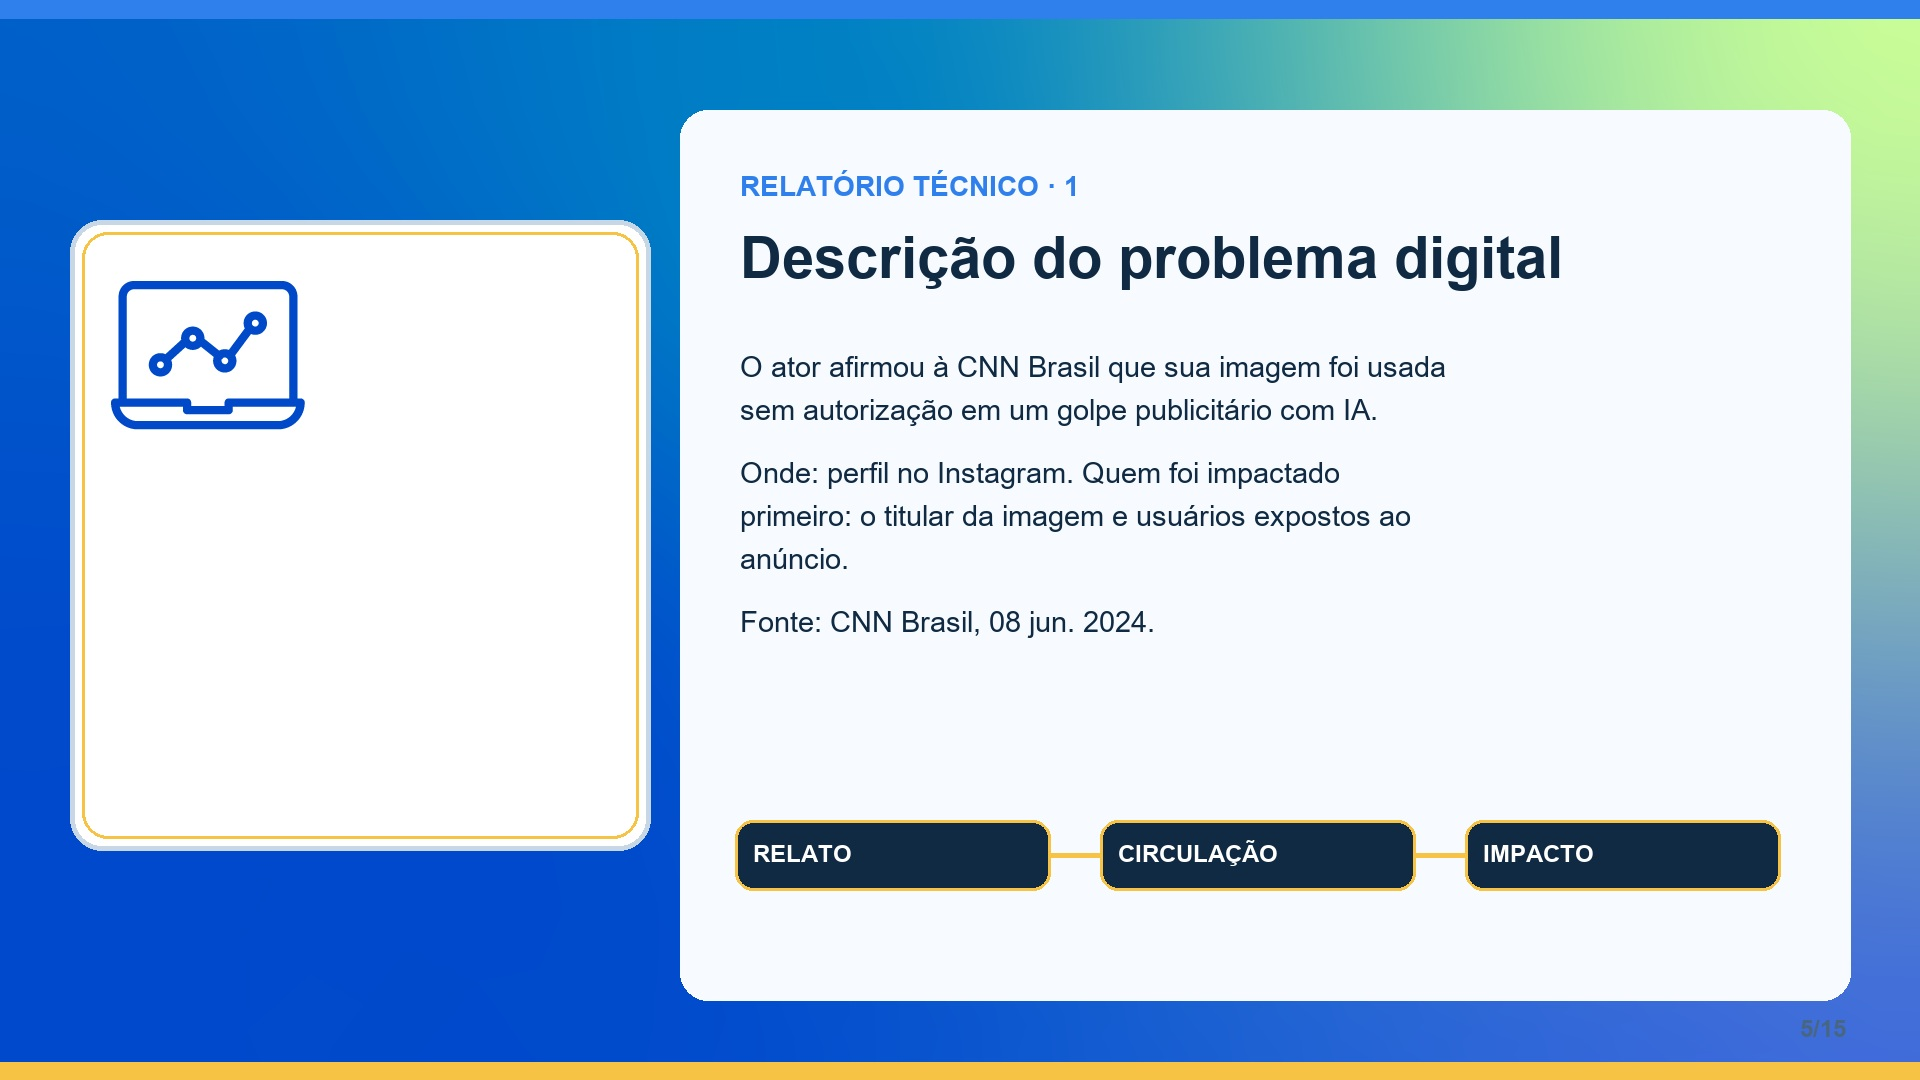
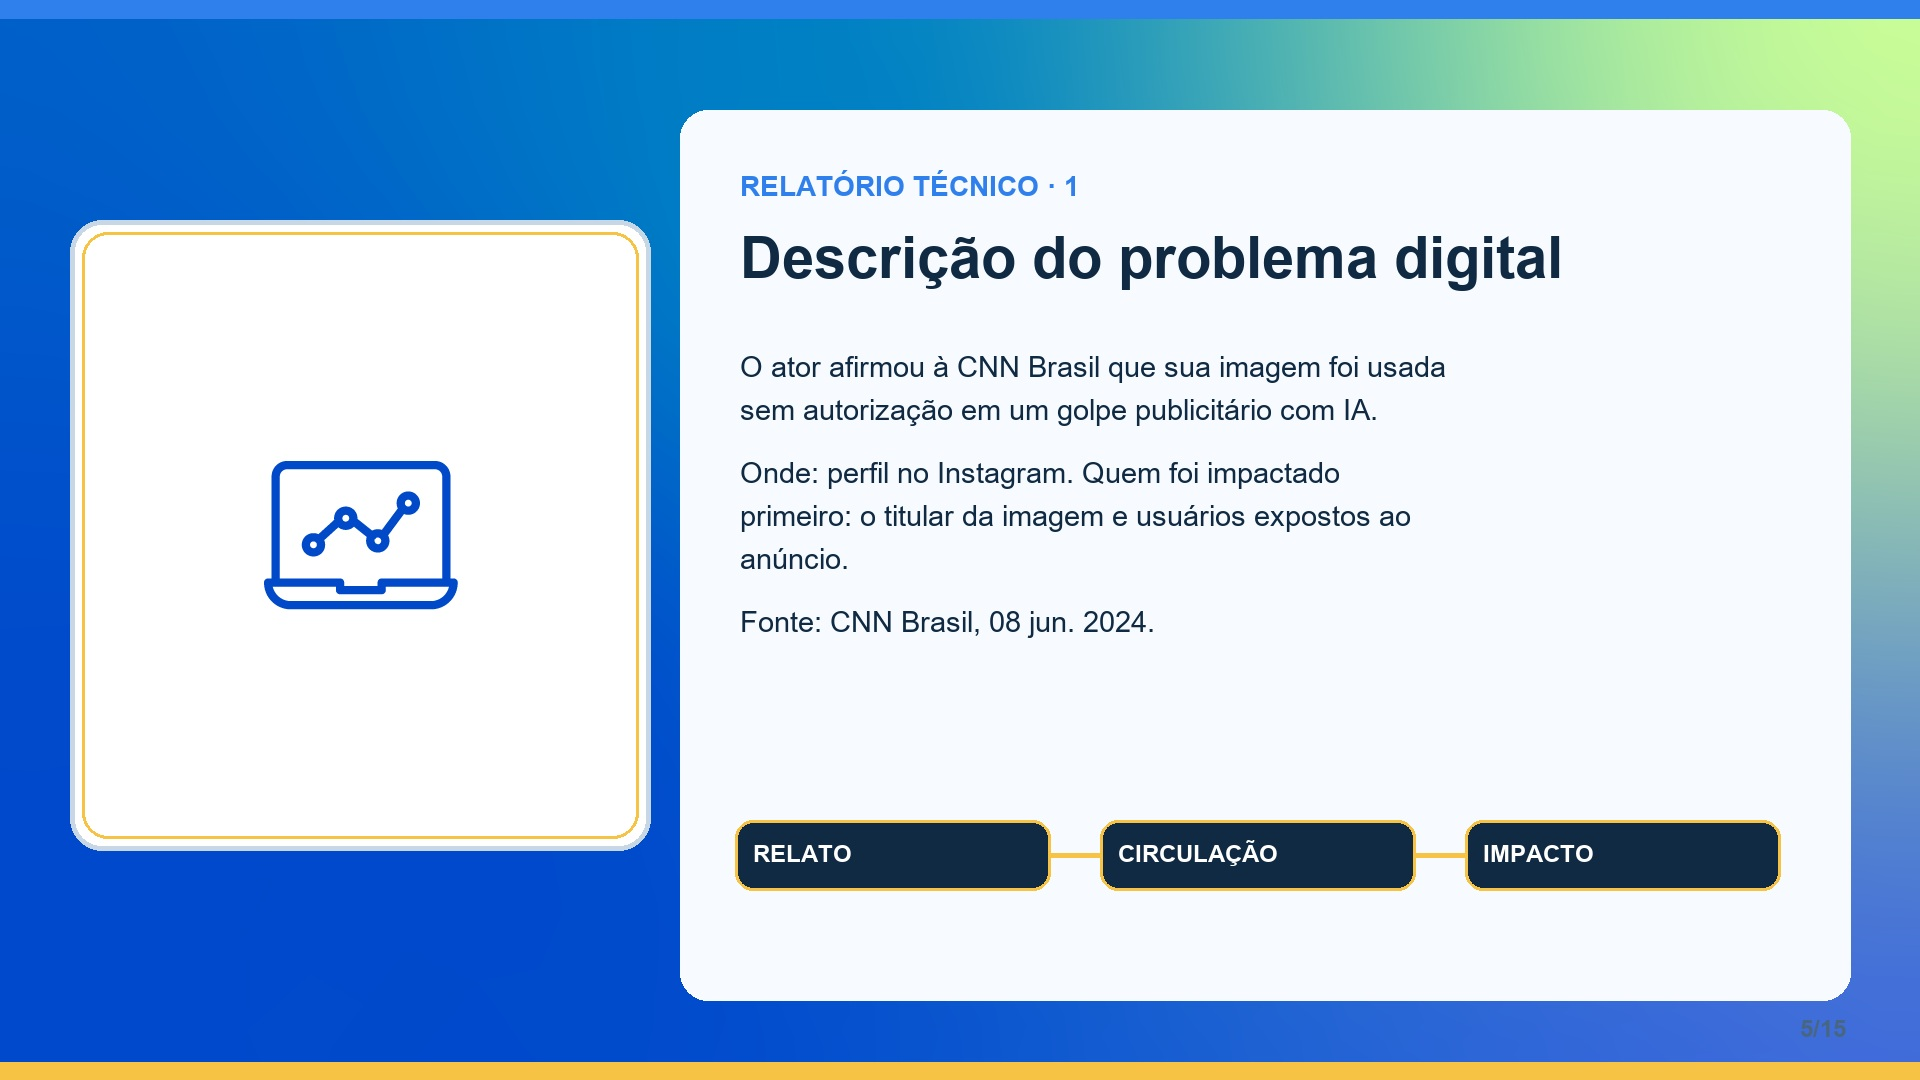
feat: escalar e centralizar ilustracoes do template

Changed region(s): [[0.125, 0.4278, 0.25, 0.5806], [0.0625, 0.2444, 0.1562, 0.3972]]

diff --git a/scripts/generate_n3_jpgs.py b/scripts/generate_n3_jpgs.py
@@ -32,7 +32,7 @@ def diagram(d, i):
 
 for i,(k,t,ps,img) in enumerate(S,1):
  bg=Image.open(A/'template-capa-002.png').convert('RGB').resize((1920,1080))
- im=bg.copy(); d=ImageDraw.Draw(im); d.rectangle((0,0,1920,18),fill=(47,128,237)); d.rectangle((0,1062,1920,1080),fill=(246,195,68)); d.rounded_rectangle((680,110,1850,1000),radius=28,fill=(247,251,255,238)); d.rounded_rectangle((70,220,650,850),radius=32,fill=(255,255,255),outline=(199,215,229),width=5); d.rounded_rectangle((82,232,638,838),radius=26,outline=(246,195,68),width=3); a=Image.open(A/img).convert('RGBA'); a.thumbnail((500,500)); im.paste(a,(110,280),a); d.text((740,170),k,font=font(28,1),fill=(47,128,237)); d.text((740,225),t,font=font(58,1),fill=(16,42,67)); y=350
+ im=bg.copy(); d=ImageDraw.Draw(im); d.rectangle((0,0,1920,18),fill=(47,128,237)); d.rectangle((0,1062,1920,1080),fill=(246,195,68)); d.rounded_rectangle((680,110,1850,1000),radius=28,fill=(247,251,255,238)); d.rounded_rectangle((70,220,650,850),radius=32,fill=(255,255,255),outline=(199,215,229),width=5); d.rounded_rectangle((82,232,638,838),radius=26,outline=(246,195,68),width=3); a=Image.open(A/img).convert('RGBA'); a.thumbnail((520,560)); ax=360-a.width//2; ay=535-a.height//2; im.paste(a,(ax,ay),a); d.text((740,170),k,font=font(28,1),fill=(47,128,237)); d.text((740,225),t,font=font(58,1),fill=(16,42,67)); y=350
  for p in ps:
   for line in textwrap.wrap(p,52):d.text((740,y),line,font=font(29),fill=(16,42,67));y+=43
   y+=20
